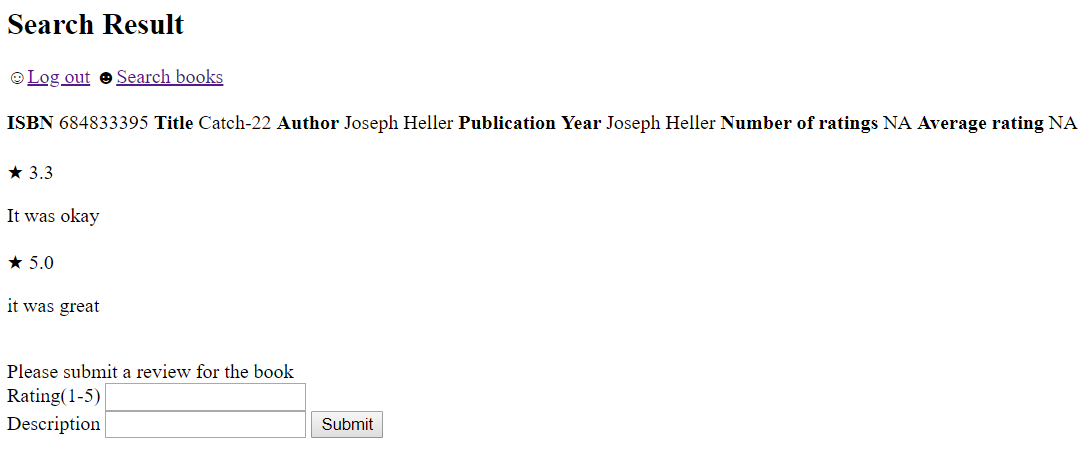
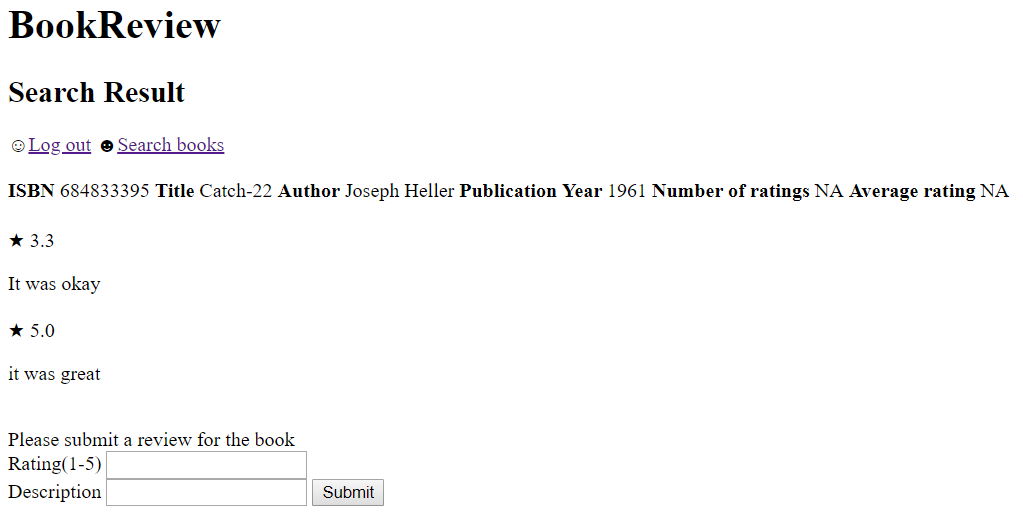
Fix mistake for year

diff --git a/projects/project1/project1/templates/bookpage.html b/projects/project1/project1/templates/bookpage.html
@@ -10,7 +10,7 @@
 
 {% block body %}
 	<div>
-		<b>ISBN</b> {{ book.isbn }} <b>Title</b> {{ book.title }} <b>Author</b> {{ book.author }} <b>Publication Year</b> {{ book.author}}
+		<b>ISBN</b> {{ book.isbn }} <b>Title</b> {{ book.title }} <b>Author</b> {{ book.author }} <b>Publication Year</b> {{ book.year}}
 		<b>Number of ratings</b> {{ count }} <b>Average rating</b> {{ average }}
 	</div>
 	<br>
